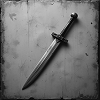
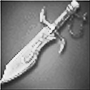
empty armor images, battle history page

diff --git a/resources/views/livewire/inventory.blade.php b/resources/views/livewire/inventory.blade.php
@@ -16,7 +16,7 @@
                 <div class="flex">
 
                     <div>
-                        <div id="helmet" class="relative w-[90px] h-[90px] border">
+                        <div id="helmet" class="relative w-[90px] h-[90px]" style="box-shadow: inset 0px 2px 7px 1px #5a5a5a36;">
                             @if(isset($equippedBySlot['helmet']))
                                 @php
                                     $helmet = $equippedBySlot['helmet'];
@@ -32,10 +32,10 @@
                                     <img src="{{ asset($equippedBySlot['helmet']->image) }}" class="w-full h-full object-cover p-1" alt="{{ $equippedBySlot['helmet']->name }}">
                                 </div>
                             @else
-                                <span class="text-gray-400 text-sm">Порожньо</span>
+                                <span class="block w-full h-full" style="background: url({{ asset('images/empty-equipment/helmet.png') }}) center center no-repeat; background-size: cover;background-size: 75%; opacity: .3"></span>
                             @endif
                         </div>
-                        <div id="shoulders" class="relative mt-[-1px] w-[90px] h-[50px] border">
+                        <div id="shoulders" class="relative mt-[-1px] w-[90px] h-[50px]" style="box-shadow: inset 0px 2px 7px 1px #5a5a5a36;">
                             @if(isset($equippedBySlot['shoulders']))
                                 @php
                                     $shoulders = $equippedBySlot['shoulders'];
@@ -51,10 +51,10 @@
                                     <img src="{{ asset($equippedBySlot['shoulders']->image) }}" class="w-full h-full object-cover p-1" alt="{{ $equippedBySlot['shoulders']->name }}">
                                 </div>
                             @else
-                                <span class="text-gray-400 text-sm">Порожньо</span>
+                                <span class="block w-full h-full" style="background: url({{ asset('images/empty-equipment/shoulders.png') }}) center center no-repeat; background-size: 80%; opacity: .3"></span>
                             @endif
                         </div>
-                        <div id="weapon" class="relative w-[90px] h-[90px] border">
+                        <div id="weapon" class="relative w-[90px] h-[90px]" style="box-shadow: inset 0px 2px 7px 1px #5a5a5a36;">
                             @if(isset($equippedBySlot['weapon']))
                                 @php
                                     $weapon = $equippedBySlot['weapon'];
@@ -71,10 +71,10 @@
                                     <img src="{{ asset($equippedBySlot['weapon']->image) }}" class="w-full h-full object-cover p-1" alt="{{ $equippedBySlot['weapon']->name }}">
                                 </div>
                             @else
-                                <span class="w-[90px] h-[90px] block"  style="background: url() center center no-repeat; background-size: cover;"></span>
+                                <span class="block w-full h-full" style="background: url({{ asset('images/empty-equipment/weapon.png') }}) center center no-repeat; background-size: 70%; opacity: .3"></span>
                             @endif
                         </div>
-                        <div id="armor" class="relative w-[90px] h-[120px] border">
+                        <div id="armor" class="relative w-[90px] h-[120px]" style="box-shadow: inset 0px 2px 7px 1px #5a5a5a36;">
                             @if(isset($equippedBySlot['armor']))
                                 @php
                                     $armor = $equippedBySlot['armor'];
@@ -90,10 +90,10 @@
                                     <img src="{{ asset($equippedBySlot['armor']->image) }}" class="w-full h-full object-cover p-1" alt="{{ $equippedBySlot['armor']->name }}">
                                 </div>
                             @else
-                                <span class="text-gray-400 text-sm">Порожньо</span>
+                                <span class="block w-full h-full" style="background: url({{ asset('images/empty-equipment/armor.png') }}) center center no-repeat; background-size: cover; background-size: 85%; opacity: .3"></span>
                             @endif
                         </div>
-                        <div id="belt" class="relative w-[90px] h-[50px] border">
+                        <div id="belt" class="relative w-[90px] h-[50px]" style="box-shadow: inset 0px 2px 7px 1px #5a5a5a36;">
                             @if(isset($equippedBySlot['belt']))
                                 @php
                                     $belt = $equippedBySlot['belt'];
@@ -109,7 +109,7 @@
                                     <img src="{{ asset($equippedBySlot['belt']->image) }}" class="w-full h-full object-cover p-1" alt="{{ $equippedBySlot['belt']->name }}">
                                 </div>
                             @else
-                                <span class="text-gray-400 text-sm">Порожньо</span>
+                            <span class="block w-full h-full" style="background: url({{ asset('images/empty-equipment/belt.png') }}) center center no-repeat; background-size: cover; transform: rotate(45deg); background-size: 60%; opacity: .3"></span>
                             @endif
                         </div>
                     </div>
@@ -120,12 +120,12 @@
                             <div class="absolute top-0 left-0 bg-red-400 h-1" style="width: {{ $characterExpPercent }}%"></div>
                         </div>
                         <div id="avatar" class="w-[165px] h-[334px]" style="background: url({{ asset('images/avatar.jpg') }}) center center no-repeat; background-size: cover;" title="{{ $character->user->name }} [{{ $character->level }}]"></div>
-                        <div id="banner" class="w-[165px] h-[50px] border"></div>
+                        <div id="banner" class="w-[165px] h-[50px]"></div>
                     </div>
 
                     <div>
-                        <div class="w-[90px] h-[90px] border">
-                            <div id="earrings" class="relative h-[30px] border">
+                        <div class="w-[90px] h-[90px]">
+                            <div id="earrings" class="relative h-[30px]" style="box-shadow: inset 0px 1px 5px 1px #5a5a5a36;">
                                 @if(isset($equippedBySlot['earrings']))
                                     @php
                                         $earrings = $equippedBySlot['earrings'];
@@ -141,10 +141,10 @@
                                         <img src="{{ asset($equippedBySlot['earrings']->image) }}" class="w-full h-full object-cover p-1" alt="{{ $equippedBySlot['earrings']->name }}">
                                     </div>
                                 @else
-                                    <span class="text-gray-400 text-sm">Порожньо</span>
+                                    <span class="block w-full h-full" style="background: url({{ asset('images/empty-equipment/earrings.png') }}) center center no-repeat; background-size: contain; opacity: .3"></span>
                                 @endif
                             </div>
-                            <div id="neckless" class="relative h-[30px] border">
+                            <div id="neckless" class="relative h-[30px]" style="box-shadow: inset 0px 1px 2px 1px #5a5a5a36;">
                                 @if(isset($equippedBySlot['neckless']))
                                 @php
                                     $neckless = $equippedBySlot['neckless'];
@@ -160,12 +160,12 @@
                                         <img src="{{ asset($equippedBySlot['neckless']->image) }}" class="w-full h-full object-cover p-1" alt="{{ $equippedBySlot['neckless']->name }}">
                                     </div>
                                 @else
-                                    <span class="text-gray-400 text-sm">Порожньо</span>
+                                    <span class="block w-full h-full" style="background: url({{ asset('images/empty-equipment/neckless.png') }}) center center no-repeat; background-size: contain; opacity: .3"></span>
                                 @endif
                             </div>
-                            <div class="flex h-[30px] border">
+                            <div class="flex h-[30px]">
                                 @foreach(['ring1', 'ring2', 'ring3'] as $ringSlot)
-                                    <div id="{{ $ringSlot }}" class="relative w-[30px] border">
+                                    <div id="{{ $ringSlot }}" class="relative w-[30px]" style="box-shadow: inset 0px 0px 1px 1px #5a5a5a36;">
                                         @if(isset($equippedBySlot[$ringSlot]))
                                             @php
                                                 $ring = $equippedBySlot[$ringSlot];
@@ -181,7 +181,7 @@
                                                 <img src="{{ asset($ring->image) }}" class="w-full h-full object-cover p-1" alt="{{ $ring->name }}">
                                             </div>
                                         @else
-                                            <span class="text-gray-400 text-xs">П</span>
+                                            <span class="block w-full h-full" style="background: url({{ asset('images/empty-equipment/ring.png') }}) center center no-repeat; background-size: 80%; opacity: .3"></span>
                                         @endif
                                     </div>
                                 @endforeach
@@ -189,7 +189,7 @@
                             </div>
 
                         </div>
-                        <div id="arms" class="relative w-[90px] h-[50px] border">
+                        <div id="arms" class="relative w-[90px] h-[50px] p-[5px]" style="box-shadow: inset 0px 2px 4px 1px #5a5a5a36;">
                             @if(isset($equippedBySlot['arms']))
                                 @php
                                     $arms = $equippedBySlot['arms'];
@@ -205,10 +205,10 @@
                                     <img src="{{ asset($equippedBySlot['arms']->image) }}" class="w-full h-full object-cover p-1" alt="{{ $equippedBySlot['arms']->name }}">
                                 </div>
                             @else
-                                <span class="text-gray-400 text-sm">Порожньо</span>
+                                <span class="block w-full h-full" style="background: url({{ asset('images/empty-equipment/arms.png') }}) center center no-repeat; background-size: contain; opacity: .3"></span>
                             @endif
                         </div>
-                        <div id="shield" class="relative w-[90px] h-[90px] border">
+                        <div id="shield" class="relative w-[90px] h-[90px]" style="box-shadow: inset 0px 2px 5px 1px #5a5a5a36;">
                             @if(isset($equippedBySlot['shield']))
                                 @php
                                     $shield = $equippedBySlot['shield'];
@@ -224,10 +224,10 @@
                                     <img src="{{ asset($equippedBySlot['shield']->image) }}" class="w-full h-full object-cover p-1" alt="{{ $equippedBySlot['shield']->name }}">
                                 </div>
                             @else
-                                <span class="text-gray-400 text-sm">Порожньо</span>
+                                <span class="block w-full h-full" style="background: url({{ asset('images/empty-equipment/shield.png') }}) center center no-repeat; background-size: cover; background-size: 80%; opacity: .3"></span>
                             @endif
                         </div>
-                        <div id="legs" class="relative w-[90px] h-[120px] border">
+                        <div id="legs" class="relative w-[90px] h-[120px]" style="box-shadow: inset 0px 2px 7px 1px #5a5a5a36;">
                             @if(isset($equippedBySlot['legs']))
                                 @php
                                     $legs = $equippedBySlot['legs'];
@@ -243,10 +243,10 @@
                                     <img src="{{ asset($equippedBySlot['legs']->image) }}" class="w-full h-full object-cover p-1" alt="{{ $equippedBySlot['legs']->name }}">
                                 </div>
                             @else
-                                <span class="text-gray-400 text-sm">Порожньо</span>
+                                <span class="block w-full h-full" style="background: url({{ asset('images/empty-equipment/legs.png') }}) center center no-repeat; background-size: 80%; opacity: .3"></span>
                             @endif
                         </div>
-                        <div id="boots" class="relative w-[90px] h-[50px] border">
+                        <div id="boots" class="relative w-[90px] h-[50px]" style="box-shadow: inset 0px 2px 7px 1px #5a5a5a36;">
                             @if(isset($equippedBySlot['boots']))
                                 @php
                                     $boots = $equippedBySlot['boots'];
@@ -262,7 +262,7 @@
                                     <img src="{{ asset($equippedBySlot['boots']->image) }}" class="w-full h-full object-cover p-1" alt="{{ $equippedBySlot['boots']->name }}">
                                 </div>
                             @else
-                                <span class="text-gray-400 text-sm">Порожньо</span>
+                                <span class="block w-full h-full" style="background: url({{ asset('images/empty-equipment/boots.png') }}) center center no-repeat; background-size: contain; opacity: .3"></span>
                             @endif
                         </div>
                     </div>

diff --git a/routes/web.php b/routes/web.php
@@ -3,11 +3,15 @@
 use App\Http\Controllers\Auth\RegisterController;
 use App\Http\Controllers\AuthController;
 use App\Http\Controllers\BattleController;
+use App\Http\Controllers\BattleHistoryController;
 use App\Http\Controllers\Controller;
 use App\Http\Controllers\HomeController;
 use App\Http\Controllers\InventoryController;
 use App\Http\Controllers\ShopController;
+use App\Livewire\BattleHistoryPage;
 use Illuminate\Support\Facades\Route;
+
+
 
 
 
@@ -30,3 +34,5 @@ Route::middleware('auth')->group(function () {
     Route::get('/battle', [BattleController::class, 'index'])->name('battle');
     Route::get('/battle/stats', [BattleController::class, 'stats'])->name('battle.stats');
 });
+
+Route::get('/history', [BattleHistoryController::class, 'index'])->name('history');

diff --git a/resources/views/history.blade.php b/resources/views/history.blade.php
@@ -1,0 +1,16 @@
+@extends('layouts.app')
+
+@section('content')
+    <div class="max-w-3xl mx-auto py-6 px-4 space-y-6">
+        <h1 class="text-3xl text-center font-bold text-gray-800">Результати бою</h1>
+
+        @livewire('info-chat', ['character' => $character])
+
+        <div class="pt-4 text-center">
+            <a href="{{ route('home') }}"
+               class="inline-block px-5 py-2 bg-green-600 text-white rounded hover:bg-green-700 transition">
+                Додому
+            </a>
+        </div>
+    </div>
+@endsection

diff --git a/app/Livewire/Battle.php b/app/Livewire/Battle.php
@@ -16,6 +16,8 @@ class Battle extends Component
     public $attackChoice = null;
     public $defenseChoice = null;
 
+    public bool $battleFinished = false;
+
     public $messages = [];
 
     public function mount()
@@ -280,7 +282,7 @@ class Battle extends Component
             }
 
             $this->resetBattle();
-            return redirect()->route('home');
+            return redirect()->route('history');
         }
 
         $this->attackChoice = null;

diff --git a/resources/views/livewire/info-chat.blade.php b/resources/views/livewire/info-chat.blade.php
@@ -1,4 +1,9 @@
-<div class="w-full text-sm space-y-1 h-40 overflow-auto p-3 bg-[#f9f9f9] my-5">
+@php
+    $isHistoryPage = request()->routeIs('history');
+    $chatHeightClass = $isHistoryPage ? 'h-[400px]' : 'h-40';
+@endphp
+
+<div class="w-full text-sm space-y-1 {{ $chatHeightClass }} overflow-auto p-3 bg-[#f9f9f9] my-5">
     @foreach($lines as $line)
         <div class="text-gray-700">{{ $line }}</div>
     @endforeach

diff --git a/app/Models/Character.php b/app/Models/Character.php
@@ -368,7 +368,7 @@ class Character extends Model
             }
 
             // 10% шанс на зношення
-            if (rand(1, 100) <= 50) {
+            if (rand(1, 100) <= 1) {
                 $newDurability = max(0, $pivot->current_durability - 1);
 
                 $updateData = ['current_durability' => $newDurability];

diff --git a/app/Http/Controllers/BattleHistoryController.php b/app/Http/Controllers/BattleHistoryController.php
@@ -1,0 +1,15 @@
+<?php
+
+namespace App\Http\Controllers;
+
+use Illuminate\Http\Request;
+
+class BattleHistoryController extends Controller
+{
+    public function index()
+    {
+        $character = auth()->user()->character;
+
+        return view('history', ['character' => $character]);
+    }
+}
